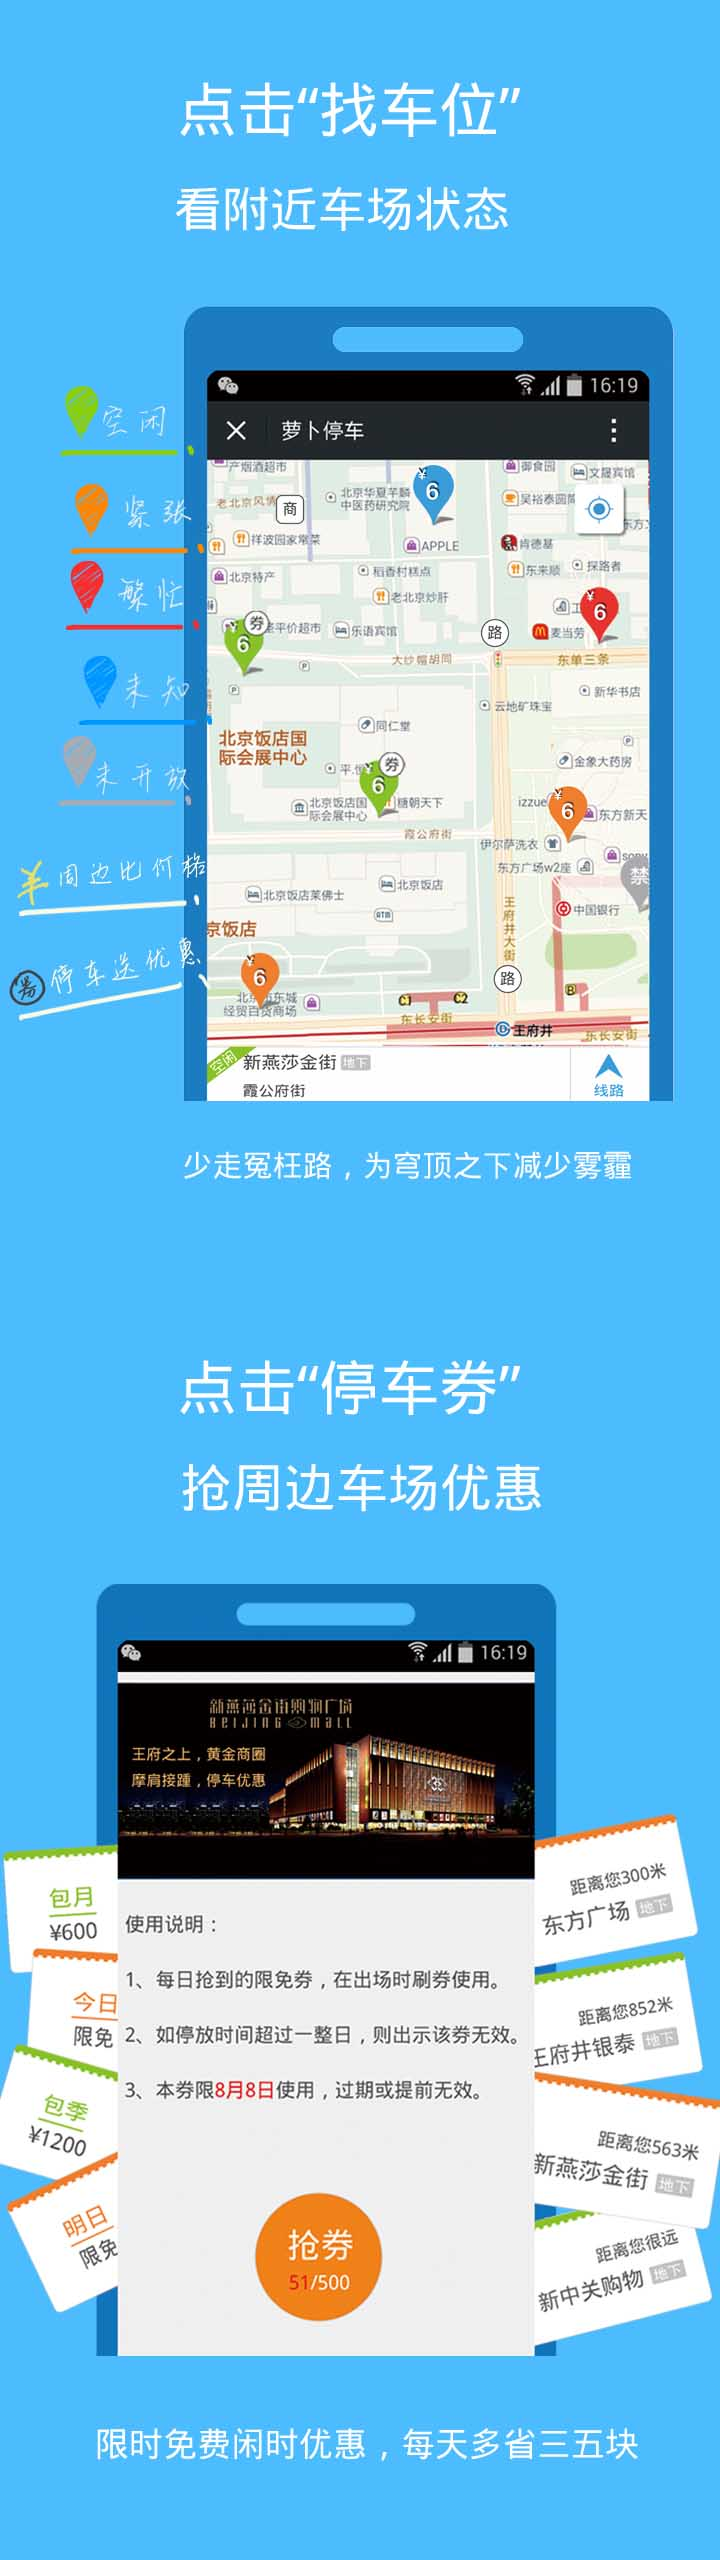
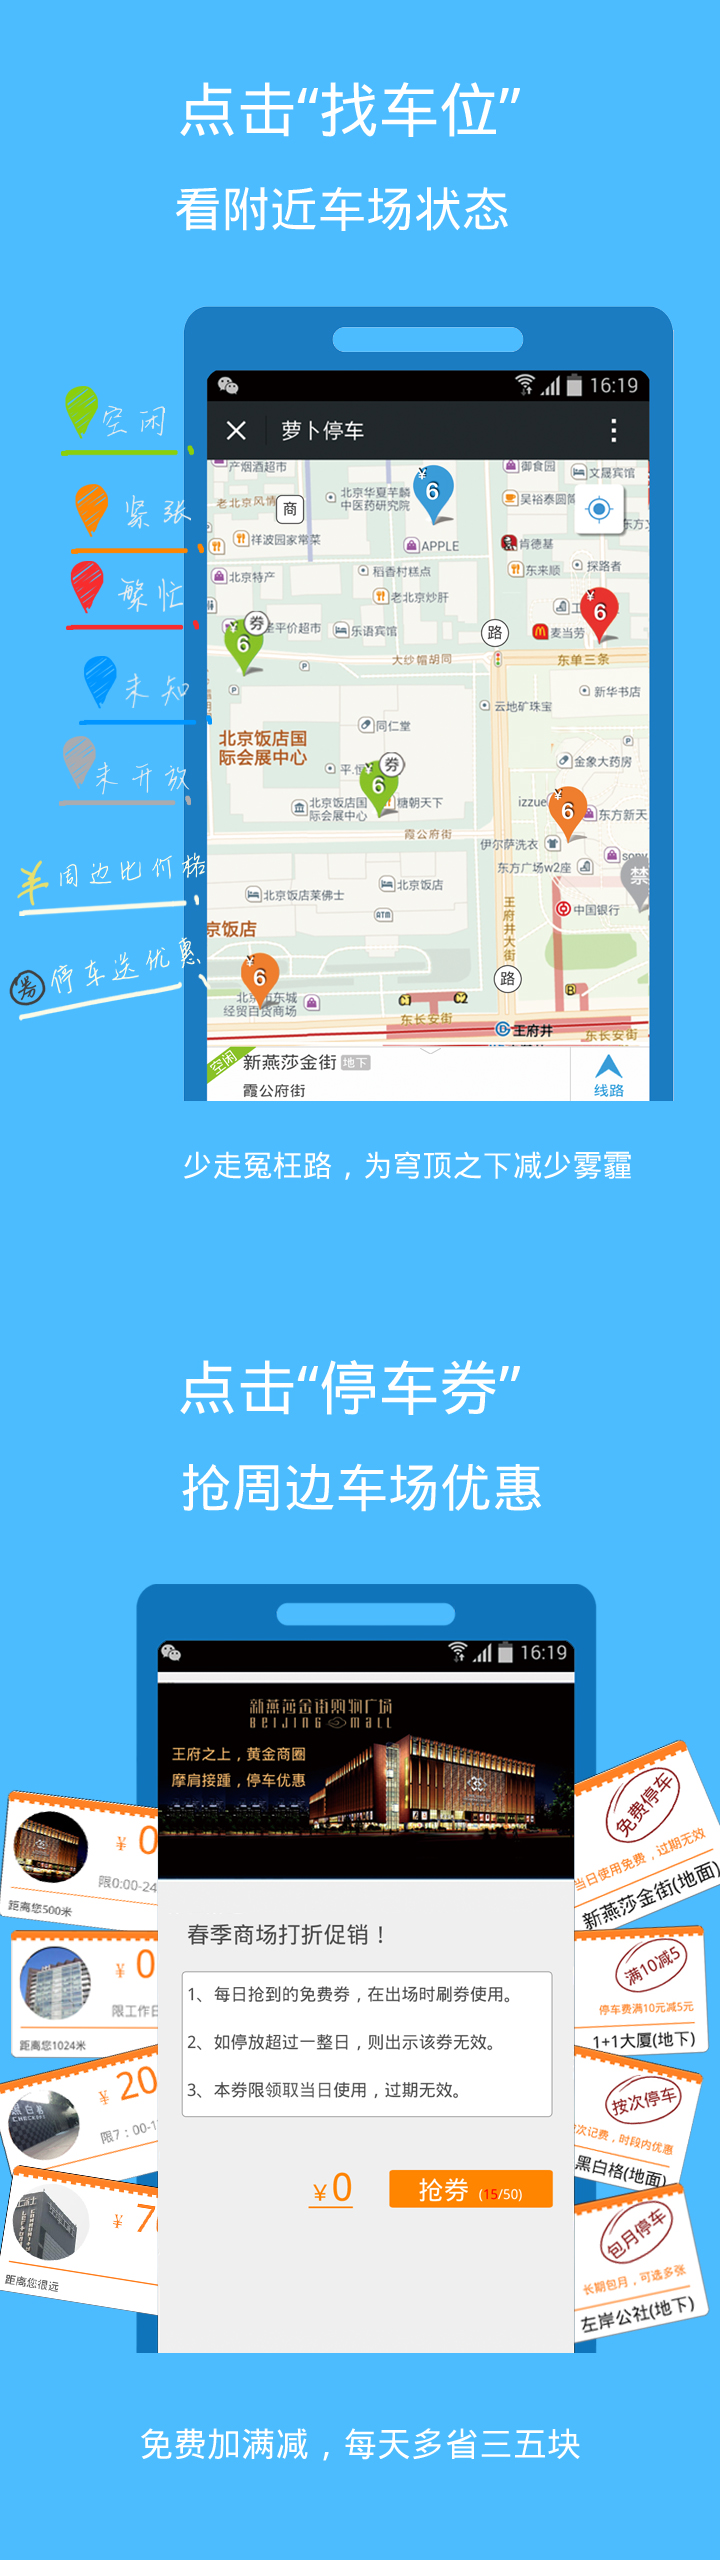
MOD

diff --git a/app/assets/javascripts/park_info_state.js b/app/assets/javascripts/park_info_state.js
@@ -26,7 +26,6 @@ LB.park_info_state = {
   deduct_dom: $("#deduct"),
   time_dom: $("#time"),
   park_title_handlebar_dom: $("#park_title_handlebar"),
-  
 
 
 

diff --git a/app/models/coupon_tpl.rb b/app/models/coupon_tpl.rb
@@ -51,7 +51,13 @@ class CouponTpl < ActiveRecord::Base
   VALID_DATES = [
     "周一至周五",
     "周六日",
-    "不限"
+    "全天可用"
+  ]
+
+  VALID_DATES_FOR_MONTHLY = [
+    "全天可用",
+    "白天可用",
+    "夜间可用"
   ]
 
   belongs_to :park
@@ -139,6 +145,7 @@ class CouponTpl < ActiveRecord::Base
   end
 
   def limitation
+    return "全天可用" if self.valid_dates == "全天可用"
     return "限" + self.valid_dates if self.valid_dates
     return "限#{self.valid_hour_begin}:00-#{self.valid_hour_end}:00" if self.valid_hour_begin
     return "全天可用"
@@ -215,15 +222,9 @@ class CouponTpl < ActiveRecord::Base
   def sort_criteria(location)
     weight = 0
     weight += 100000000 if self.highlighted?
-    weight += 20000000 if self.fit_for_date && self.fit_for_date == Date.today
-    weight += 10000000 if self.fit_for_date && self.fit_for_date != Date.today
-    weight += 2000000 if self.class.coupon_type_to_readable(self.type) == 'free'
-    weight += 1000000 if self.class.coupon_type_to_readable(self.type) != 'free'
-    if self.fit_for_date
-      weight += LbRange.new(self.park.location, location).distance
-    else
-      weight -= self.price
-    end
+    weight += 10000000 if self.price.nil? or self.price.zero?
+    weight += self.price * -1000000 if self.price && self.price > 0
+    weight -= LbRange.new(self.park.location, location).distance
     weight
   end
 

diff --git a/app/models/coupon.rb b/app/models/coupon.rb
@@ -41,7 +41,7 @@ class Coupon < ActiveRecord::Base
   scope :claimed, lambda { where(:status => :claimed) }
   scope :used, lambda { where(:status => :used) }
   scope :fit_for_today, lambda { where(["fit_for_date = ? ", Time.now.strftime("%Y-%m-%d") ]) }
-  scope :long_term_or_fit_for_today_or_tomorrow, lambda { where(["fit_for_date is NULL or fit_for_date = ? OR fit_for_date = ?", Time.now.strftime("%Y-%m-%d"), Time.now.tomorrow.strftime("%Y-%m-%d") ]) }
+  scope :long_term_or_fit_for_today, lambda { where(["fit_for_date is NULL or fit_for_date = ? ", Time.now.strftime("%Y-%m-%d")]) }
   scope :expired, lambda { where(["fit_for_date < ?", Time.now.strftime("%Y-%m-%d")]) }
 
   mount_uploader :qr_code, CouponQrCodeUploader

diff --git a/app/models/user.rb b/app/models/user.rb
@@ -115,7 +115,7 @@ class User < ActiveRecord::Base
   end
 
   def coupons_need_to_display
-    coupons = self.coupons.claimed.long_term_or_fit_for_today_or_tomorrow.display_order.all
+    coupons = self.coupons.claimed.long_term_or_fit_for_today.display_order.all
     coupons << self.coupons.expired.order("claimed_at ASC").limit(2)
     coupons << self.coupons.used.order("used_at desc").limit(2)
     coupons.flatten

diff --git a/app/controllers/vendor_coupons_controller.rb b/app/controllers/vendor_coupons_controller.rb
@@ -8,7 +8,7 @@ class VendorCouponsController < VendorController
   end
 
   def use
-    @coupon = current_park.coupons.claimed.long_term_or_fit_for_today_or_tomorrow.find_by_identifier params[:id]
+    @coupon = current_park.coupons.claimed.long_term_or_fit_for_today.find_by_identifier params[:id]
     if @coupon && @coupon.can_use?(current_vendor.park)
       @coupon.use!
       @scan_result = true
